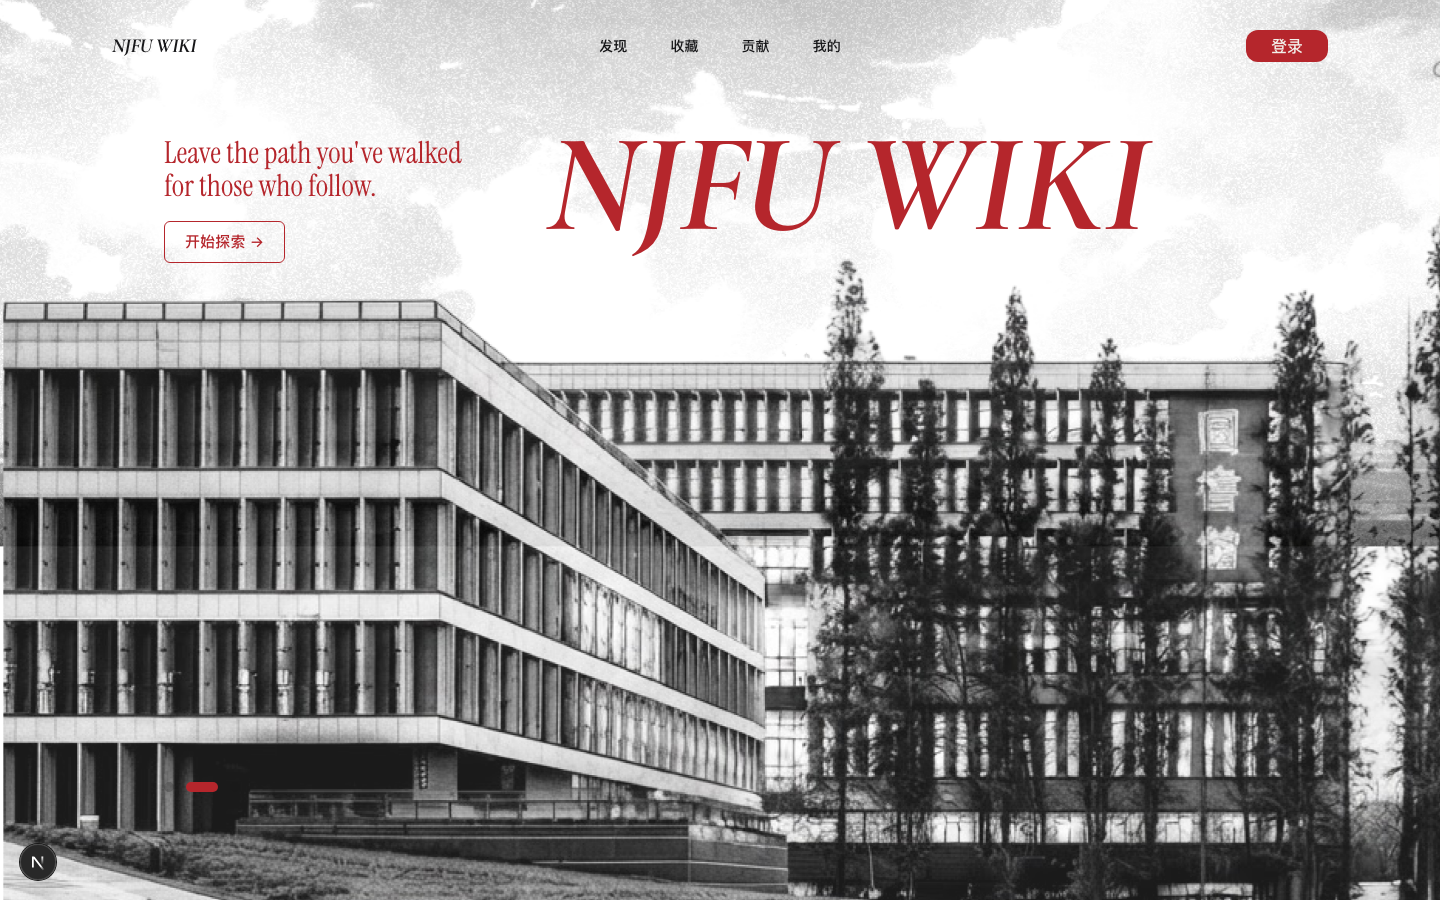
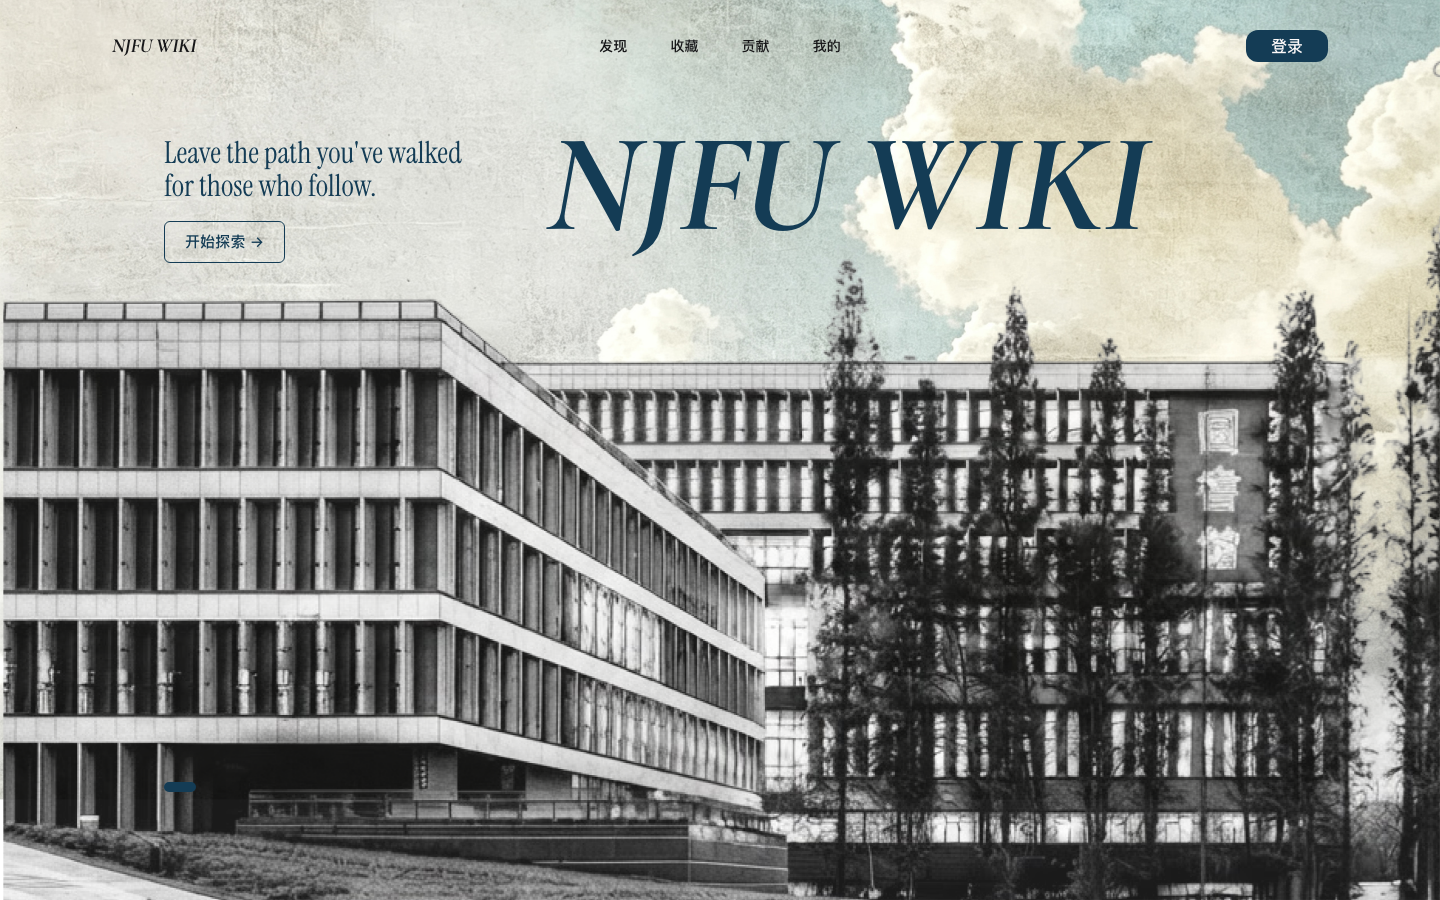
docs: streamline project readme

Changed region(s): [[0.0, 0.0, 1.0, 0.7778], [0.0, 0.9333, 0.0625, 0.9956], [0.125, 0.8711, 0.1562, 0.9022]]

diff --git a/README.md b/README.md
@@ -1,274 +1,126 @@
-# NJFU Wiki 2.0｜校园成长决策与经验协作平台
+# NJFU Wiki｜校园成长与资料推荐平台
 
-> 让分散的同校资料与经验，从“能被找到”进一步变成“能帮助学生做判断并开始行动”。
+> 帮助南京林业大学计算机学院学生，从“不知道该找什么”走到“知道下一步做什么”。
 
-**在线体验：** [打开 Web MVP](https://njfu-wiki-advisor.g1342038753.chatgpt.site)<br>
-**产品过程：** [查看需求分析与方案设计 FigJam](https://www.figma.com/board/Uaa8TfAvCXnz7MMvOqjiK3/NJFU-WIKI-2.0?node-id=0-1&t=TWZbfCstcUmpN2bn-1)<br>
-**项目状态：** 用户侧 MVP 已实现｜DeepSeek RAG 已接入｜检索、生成与推荐评测已建立
+[产品思考与方案设计](https://www.figma.com/board/Uaa8TfAvCXnz7MMvOqjiK3/NJFU-WIKI-2.0?node-id=0-1&t=TWZbfCstcUmpN2bn-1) · [用户侧 MVP PRD](./docs/product/PRD-v0.2-user-mvp.md) · 在线体验部署中
 
-![NJFU Wiki 2.0 首页](./docs/images/njfu-wiki-demo.png)
+![NJFU Wiki 绿色首页](./docs/images/njfu-wiki-demo.png)
 
-## 一句话理解这个产品
+## 1. 这是什么项目
 
-NJFU Wiki 2.0 面向南京林业大学计算机学院学生，提供两种获取帮助的方式：
+NJFU Wiki 是一个面向南林计算机学生的校园知识发现与个人发展导学 MVP。
 
-- **知道自己要找什么：**直接搜索课程、竞赛、升学与学习资料。
-- **不知道该找什么：**向 AI 描述处境，由系统澄清目标与约束，推荐合适路径、资料和下一步行动。
+现有课程资料和同校经验已经散落在 GitHub、文档与群聊中，但“资料存在”不等于“学生知道该找什么、是否适合自己、接下来做什么”。尤其在竞赛、保研、课程学习和方向选择等场景中，用户往往只能描述一个模糊目标，例如：
 
-它不是一个只会给出链接的聊天机器人，也不是把 GitHub 文件搬进网页的资料站。产品以同校资料、经验与规则为信息底座，用 AI 降低“表达需求、判断适用性和开始行动”的门槛，并通过收藏、贡献和反馈形成可持续的校园知识循环。
+> “我大三，想提高保研竞争力，会一点 Python，但不知道应该参加什么竞赛。”
 
-> 本项目是个人完成的产品探索与工程 MVP，基于对现有 NJFU-WIKI 1.0 内容形态的复盘提出 2.0 方案，不代表南京林业大学或相关学生组织的官方服务。
+项目因此提供两条互补路径：
 
-## 01｜为什么要做 2.0
+- **明确需求：**搜索课程、竞赛与学习资料，查看用途、适用阶段和原始来源。
+- **模糊需求：**向 Agent 描述处境，由系统澄清年级、目标、基础、时间和组队情况，再给出有依据的选择、资料和下一步行动。
 
-现有校园 Wiki 已经解决了部分“资料有没有”的问题，但从用户任务出发，仍存在五个断点：
+### 为什么引入 Agent
 
-1. **模糊困惑没有入口。** 用户只知道“想保研”“想学 AI”，却不知道应该搜索什么关键词或进入哪个栏目。
-2. **找到内容不等于会判断。** 用户很难快速确认资料是否适合自己的年级、基础和目标，来源是否可信、信息是否仍有效。
-3. **读完内容不等于能行动。** 文章和外链常成为流程终点，用户仍需自行寻找准备步骤、材料、截止时间和学习顺序。
-4. **个性化问题缺少恢复路径。** 静态 Q&A 无法覆盖长尾问题，用户只能反复搜索、进入群聊询问或直接离开。
-5. **经验难以持续沉淀。** Markdown 与 GitHub PR 对普通贡献者门槛较高，内容的审核、更新、过期和责任状态也不够透明。
+传统搜索要求用户先知道关键词，但本项目最核心的用户恰恰“不知道自己需要什么”。Agent 位于知识库之上，负责理解用户画像、判断信息是否充分、检索并组合两类证据：
 
-因此，我把问题从“重做一个资料网站”重新定义为：
+- **竞赛与政策库：**包含竞赛类型、准备要求、时间投入、综测与推免历史口径，用于判断“什么更适合”。
+- **课程资料目录库：**由 [NJFU-CS/NJFU-Courses](https://github.com/NJFU-CS/NJFU-Courses) 整理出的 365 条资料元数据和原始链接，用于回答“下一步具体看什么”。
 
-**如何帮助南林计算机学生从不明确的问题出发，找到可信且适合自己的信息，把它转化为下一步行动，并让这次经验继续帮助后来者？**
+Agent 不是事实来源。事实必须来自知识库证据；信息不足时继续追问；政策可能变化时明确提醒用户以当届官方文件为准。
 
-## 02｜用户与核心任务
+### 目前覆盖的场景
 
-| 用户角色 | 典型处境 | 希望完成的任务 |
-| --- | --- | --- |
-| 在校学生（核心用户） | 面临方向、课程、竞赛、升学或求职选择 | 找到信息，判断是否适合自己，并知道下一步做什么 |
-| 学生与校友（内容供给者） | 手里有资料或经验，但缺少整理与发布方式 | 低成本贡献、补充或纠错，让经验可以被复用 |
-| 计协与内容责任人（运营者） | 内容分散且更新依赖个人 | 审核、更新、归档内容，并根据反馈发现问题 |
+- 按课程或主题搜索资料，并打开 GitHub 原始文件。
+- 根据年级、目标、基础与时间推荐竞赛和准备资料。
+- 输出推荐理由、风险、准备周期和近期行动。
+- 保存对话与收藏；通过贡献页模拟资料和经验投稿。
 
-用户需要的并不只是“更多资料”，而是四种连续价值：
+> 本项目是个人完成的产品与工程 MVP，不代表南京林业大学或相关学生组织的官方服务。
 
-- **方向澄清：**把模糊困惑转化为阶段、目标、约束和起步路径。
-- **可信判断：**说明适用人群、前置条件、来源、时效与不适用情况。
-- **行动承接：**把内容转化为优先级、准备步骤、材料和近期行动。
-- **知识循环：**降低贡献与纠错门槛，让有效经验能够持续更新。
+## 2. 如何开始使用
 
-## 03｜产品策略：一套内容，两条发现路径
+### 在线体验
 
-用户进入“发现”后，系统先尊重他当前的确定程度，而不是强迫所有人都和 AI 对话。
+Vercel 版本部署完成后可直接访问，**体验者无需填写 API Key**。模型密钥只保存在部署平台的服务端环境变量中，不会发送到浏览器。
 
-~~~mermaid
-flowchart LR
-    A[产生问题或目标] --> B{知道自己要找什么?}
-    B -->|是| C[关键词搜索 / 分类浏览]
-    B -->|否| D[AI 澄清阶段、目标与约束]
-    C --> E[可信内容与资料详情]
-    D --> F[路径匹配与推荐解释]
-    F --> E
-    E --> G[下一步行动 / 收藏]
-    G --> H[有用、不适用或错误反馈]
-    H --> I[内容与推荐持续改进]
-    J[学生与校友贡献] --> K[AI 辅助整理]
-    K --> L[确认、审核与发布]
-    L --> E
-~~~
+推荐从下面两个任务开始：
 
-这套方案的差异化不是“多一个 AI 输入框”，而是：
+1. 在“发现”页搜索“数据结构”，查看资料用途与原始来源。
+2. 进入“AI 导学”，描述自己的年级、目标和大致基础；补充 1–2 个关键条件后，查看个性化推荐、知识依据与行动步骤。
 
-**南林同校语境 × 个体适配 × 可信可追溯 × 行动闭环 × 共建更新**
+### 本地运行
 
-- 相比泛化经验平台：更强调同校、同阶段、任务化和可验证。
-- 相比群聊：把即时但易沉没的回答变成可检索、可复用的公共经验。
-- 相比传统 Wiki：从“按栏目阅读”延伸到意图澄清、路径匹配、行动承接和反馈治理。
+环境要求：Node.js 22.13+、pnpm。
 
-## 04｜用户侧 MVP
-
-本轮用五个一级页面验证完整但克制的用户链路：
-
-| 页面 | 用户价值 | 当前 MVP 能力 |
-| --- | --- | --- |
-| 首页 | 理解品牌并进入任务 | 三套视觉主题、一级导航、桌面端响应式 |
-| 发现 | 找资料或描述模糊问题 | 搜索结果、资料详情、AI 对话与推荐 |
-| 收藏 | 留存并重新找到有用内容 | 本地收藏、文件夹整理与状态保持 |
-| 贡献 | 低门槛分享资料或经验 | 资料/经验表单、预览、AI 整理交互 |
-| 我的 | 查看个人沉淀 | 用户信息、AI 画像、贡献与收藏入口 |
-
-### 两条关键路径
-
-**路径 A：明确需求**
-
-搜索“数据结构” → 浏览结构化资料卡片 → 查看来源与适用阶段 → 打开原始资料或收藏。
-
-**路径 B：模糊需求**
-
-“我大三，想保研，学过 Python，每周有 10 小时，不知道参加什么比赛” → 系统记录画像 → 只追问真正缺失的信息 → 同时检索竞赛政策与课程资料 → 给出推荐理由、风险、准备周期和行动顺序。
-
-## 05｜AI 在产品中的角色
-
-AI 是建立在内容底座之上的**决策与解释层**，不是事实来源本身。
-
-系统当前使用两个相互独立的知识库：
-
-- **竞赛与政策库：**竞赛类别、适合人群、准备周期、能力要求、综测与推免口径，用于判断“什么更适合”。
-- **课程资料目录库：**从 [NJFU-CS/NJFU-Courses](https://github.com/NJFU-CS/NJFU-Courses) 整理出的 365 条资料元数据与原始链接，用于回答“下一步具体看什么”。本项目不复制原仓库中的 PDF、图片等文件。
-
-~~~mermaid
-flowchart LR
-    A[自然语言问题] --> B[结构化用户画像]
-    B --> C{关键信息充分?}
-    C -->|否| D[一次追问 1–2 个关键问题]
-    D --> B
-    C -->|是| E[意图路由与查询扩展]
-    E --> F[竞赛政策库 98 个检索块]
-    E --> G[资料目录库 365 条资源]
-    F --> H[规则匹配与证据排序]
-    G --> H
-    H --> I[DeepSeek 基于证据生成]
-    I --> J[推荐 + 理由 + 风险 + 行动 + 引用]
-    H -->|模型失败或限流| J
-~~~
-
-关键设计原则：
-
-- 已经知道的信息不重复询问，追问阶段不展示无意义的政策卡片。
-- 事实必须来自检索证据；建议与事实分开表达，证据不足时明确承认。
-- 推荐数量保持克制，并说明为什么适合、何时不适合。
-- 模型不可用、超时或达到公开演示阈值时，回退到规则检索基线。
-
-## 06｜从 Bad Case 推动的产品迭代
-
-| 发现的问题 | 归因 | 迭代结果 |
-| --- | --- | --- |
-| 用户已经补充信息，系统仍反复追问 | 多轮信息未稳定写入结构化画像 | 持久化会话画像，只询问真正缺失的字段 |
-| 追问阶段出现无参考意义的政策卡片 | 没有区分澄清与推荐的展示时机 | 信息不足时隐藏依据卡片，完成判断后再展示 |
-| GitHub 文件名包含大量序号，用户看不懂 | 原始文件名被直接当成产品标题 | 增加标题清洗、课程语境与用途摘要 |
-| 政策卡片不可点击却呈现为可操作内容 | 证据类型与交互能力不一致 | 政策作为引用依据呈现，资料保留原始链接 |
-| 模型接口无返回时体验像系统失败 | 生成层与检索层耦合 | 增加重试、错误提示和确定性回退 |
-| 第一轮评测几乎全部通过 | 测试集过于接近已有规则 | 增加歧义、边界、无答案与对抗样本，维护 Bad Case 回归集 |
-
-这些修改来自真实原型验收过程，而不是在完成代码后补写的功能说明。
-
-## 07｜评测：把“感觉不错”变成可回归的问题
-
-评测被拆成三层，分别定位理解、检索和生成问题：
-
-- **用户理解：**画像字段抽取准确率、不必要追问率。
-- **知识检索：**Hit@5、Recall@5、MRR@5、Precision@5、Context Precision、nDCG@5。
-- **推荐与生成：**忠实度、答案相关性、上下文相关性、推荐适配度、行动性与不确定性表达。
-
-| 层级 | 代表指标 | 当前结果 |
-| --- | --- | --- |
-| 用户理解 | 字段准确率 / 不必要追问率 | 100% / 0% |
-| 检索 | Hit@5 / Recall@5 / MRR@5 | 100% / 73.06% / 0.9194 |
-| 检索 | Context Precision@5 / nDCG@5 | 85.43% / 79.38% |
-| 生成 | 忠实度 / 答案相关性 / 上下文相关性 | 89.47% / 100% / 93.42% |
-| 推荐 | 推荐适配度 / 行动性 | 90% / 94.74% |
-
-> 当前数据来自 30 个检索任务和 19 个生成评审样本，只用于 MVP 回归与问题定位，不代表对所有真实用户问题的泛化表现。
-
-查看[检索评测报告](./evals/results/baseline-v7.md)、[生成评审报告](./evals/results/judge-deepseek-reasoner-v3-final.md)和 [Bad Case 总表](./evals/badcases.jsonl)。
-
-## 08｜我完成了什么
-
-这是一个从问题定义到可运行 MVP 的个人项目，我负责了以下工作：
-
-**产品发现与定义**
-
-- 复盘 NJFU-WIKI 1.0 的定位、信息架构、内容消费链路和贡献链路。
-- 梳理五类原生痛点，并将问题收敛为“模糊意图、可信判断、行动承接、长尾求助、内容持续性”。
-- 定义用户角色、核心场景、产品体系、优先级矩阵、MVP 边界和关键指标。
-
-**交互与原型**
-
-- 输出用户流程、信息架构和用户侧 MVP PRD。
-- 使用 Figma Make 完成高保真桌面端原型与关键交互。
-- 根据人工验收持续修复返回路径、会话丢失、卡片展示时机、命名可读性和轮播闪烁等问题。
-
-**AI 产品与工程落地**
-
-- 设计双知识库结构、数据边界、切分方式、检索字段和引用规则。
-- 设计画像抽取、信息完整度判断、追问、查询扩展、路径匹配与推荐输出。
-- 接入 DeepSeek API，并处理服务端密钥隔离、空响应、重试、超时、限流与规则回退。
-- 借助 Figma Make 与 AI Coding 工具完成 Next.js 工程实现、调试和部署。
-
-**评测与迭代**
-
-- 建立用户理解、检索、生成和推荐决策四类评测。
-- 建立 Bad Case 分类、归因、修复状态和自动回归机制。
-- 用评测与人工验收共同决定下一轮产品和检索策略改动。
-
-## 09｜项目产物
-
-- [产品发现与方案设计 FigJam](https://www.figma.com/board/Uaa8TfAvCXnz7MMvOqjiK3/NJFU-WIKI-2.0?node-id=0-1&t=TWZbfCstcUmpN2bn-1)
-- [用户侧 MVP PRD](./docs/product/PRD-v0.2-user-mvp.md)
-- [RAG 架构说明](./docs/rag-v1-architecture.md)
-- [RAG 评测集](./evals/rag-eval-cases.jsonl)
-- [Bad Case 分类与记录](./evals/badcase-taxonomy.json)
-- [最新检索与生成报告](./evals/results/latest.md)
-
-## 10｜实现状态与边界
-
-| 状态 | 内容 |
-| --- | --- |
-| 已实现 | 桌面端主要页面、搜索、真实 RAG 问答、资料引用、对话保存、收藏与贡献的本地交互、错误回退、评测脚本 |
-| 原型模拟 | 登录身份、用户画像、收藏与贡献数据，当前保存在浏览器而非正式数据库 |
-| 暂未实现 | 运营后台、真实投稿审核、内容生命周期、统一身份认证、多人协作数据、移动端专项设计 |
-
-这一区分用于避免把高保真交互误写成已经上线的正式业务能力。
-
-## 11｜技术实现
-
-- Next.js 16、React 19、TypeScript
-- 本地结构化知识索引与双库混合检索
-- DeepSeek / OpenAI Chat Completions 兼容接口
-- 基于证据的结构化生成与 P/R 引用
-- sessionStorage 对话状态、localStorage MVP 用户状态
-- 确定性基线、模型重试、失败回退与公开演示软限流
-- Node.js 评测脚本、Bad Case 回归与独立 LLM Judge
-
-## 12｜本地运行
-
-环境要求：Node.js 22.13 或更高版本、pnpm。
-
-~~~bash
+```bash
 pnpm install
 cp .env.example .env.local
 pnpm dev
-~~~
+```
 
-在 .env.local 中配置服务端模型密钥：
+仅本地开发者需要在 `.env.local` 中配置自己的模型密钥：
 
-~~~env
+```env
 LLM_API_BASE_URL=https://api.deepseek.com
 LLM_API_KEY=你的服务端密钥
 LLM_MODEL=DeepSeek 控制台当前可用的模型 ID
-~~~
+```
 
-未配置模型时，界面、画像理解和双库检索仍可通过规则基线运行。
+未配置模型时，界面、用户信息理解和双库检索仍可通过确定性规则基线运行。
 
-运行构建与评测：
+常用检查命令：
 
-~~~bash
+```bash
 pnpm build
 pnpm lint
 pnpm eval:baseline
 pnpm eval:badcases
-~~~
+```
 
-配置真实模型并启动本地服务后，还可以运行：
+## 3. 它是怎样实现与验证的
 
-~~~bash
-pnpm eval:generation
-pnpm eval:judge
-~~~
+```mermaid
+flowchart LR
+    A[用户问题] --> B[画像抽取与信息完整度判断]
+    B -->|信息不足| C[一次追问 1–2 个关键问题]
+    C --> B
+    B -->|信息充分| D[竞赛政策库 + 课程资料目录库]
+    D --> E[混合检索与规则排序]
+    E --> F[DeepSeek 基于证据生成]
+    F --> G[推荐 + 理由 + 风险 + 行动 + 引用]
+    E -->|模型失败或限流| H[确定性规则回退]
+    H --> G
+```
 
-## 13｜下一步验证
+### 核心实现
 
-下一轮不优先继续增加页面，而是验证关键假设：
+- Next.js 16、React 19、TypeScript。
+- 98 个竞赛政策检索块与 365 条课程资料目录，限制资料链接只指向 NJFU-CS/NJFU-Courses。
+- 结构化用户画像、多轮信息补全、双库检索、规则重排和基于证据的生成。
+- DeepSeek 服务端调用、超时与空响应处理、重试、频率限制和规则回退。
+- 对话与收藏的浏览器端状态保持；贡献、登录和用户资料为 MVP 模拟能力。
 
-1. 邀请目标用户完成“明确搜索”和“模糊提问”两类任务，观察是否能独立到达有效资料。
-2. 增加搜索、追问轮次、推荐点击、原始来源打开、收藏和反馈等关键行为埋点。
-3. 重点跟踪“首次有效推荐率、平均澄清轮次、资料打开率、收藏率、无结果恢复率”。
-4. 根据真实问题补充路径知识，而不是盲目扩大资料数量。
-5. 在验证用户价值后，再接入数据库、真实账号、投稿审核与内容治理。
+### 评测与迭代
 
-## 14｜部署与安全
+项目没有只验证“页面能不能运行”，而是分别评测用户理解、检索和生成推荐，并建立 Bad Case 回归集。
 
-项目可部署到 Vercel。公开演示时，模型密钥只配置在服务端环境变量中，不使用 NEXT_PUBLIC_ 前缀；同时设置请求频率与每日调用软上限。
+| 层级 | 当前 MVP 结果 | 主要观察 |
+| --- | ---: | --- |
+| 用户理解 | 字段准确率 100%，不必要追问率 0% | 用于回归“重复追问”等问题 |
+| 检索 | Recall@5 73.06%，MRR@5 0.9194，nDCG@5 79.38% | 仍需扩大真实查询与难例覆盖 |
+| 生成 | 忠实度 89.47%，答案相关性 100%，行动性 94.74% | 证据不足与政策时效性是重点风险 |
 
-课程资料链接指向原始 NJFU-Courses 仓库；竞赛、综测和推免信息可能随年份变化，实际决策必须以当届学校及学院官方文件为准。
+以上结果来自 30 个检索任务和 19 个生成评审样本，只用于 MVP 回归与问题定位，不代表对所有真实问题的泛化表现。
+
+我在本项目中完成了：
+
+- 从用户问题、信息架构和关键场景出发定义 MVP，并使用 Figma Make 完成交互原型。
+- 整理知识库边界、资料目录、切分与引用方式，设计 Agent 的追问和推荐逻辑。
+- 完成前后端实现、模型接入、服务端密钥隔离、异常回退与公开体验限流。
+- 建立检索指标、生成评审、Bad Case 分类、归因和自动回归流程。
+
+进一步查看：[RAG 架构](./docs/rag-v1-architecture.md) · [检索评测](./evals/results/baseline-v7.md) · [生成评审](./evals/results/judge-deepseek-reasoner-v3-final.md) · [Bad Case 总表](./evals/badcases.jsonl)
+
+### MVP 边界
+
+当前版本用于验证“模糊意图澄清 → 双库检索 → 个性化推荐 → 行动承接”的核心链路。登录身份、贡献审核、多人数据与运营后台尚未接入正式数据库；竞赛、综测和推免信息可能随年份变化，实际决策应以当届学校及学院文件为准。
